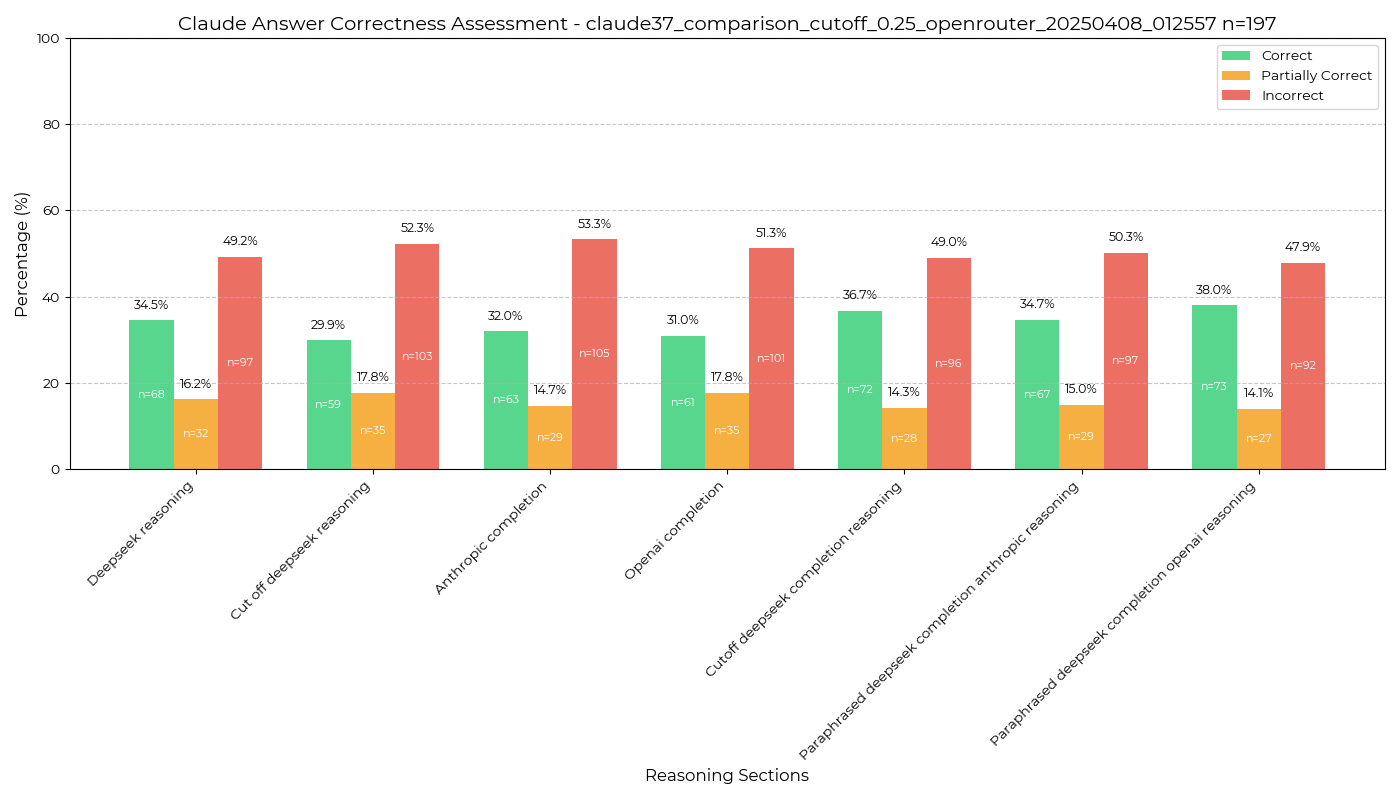
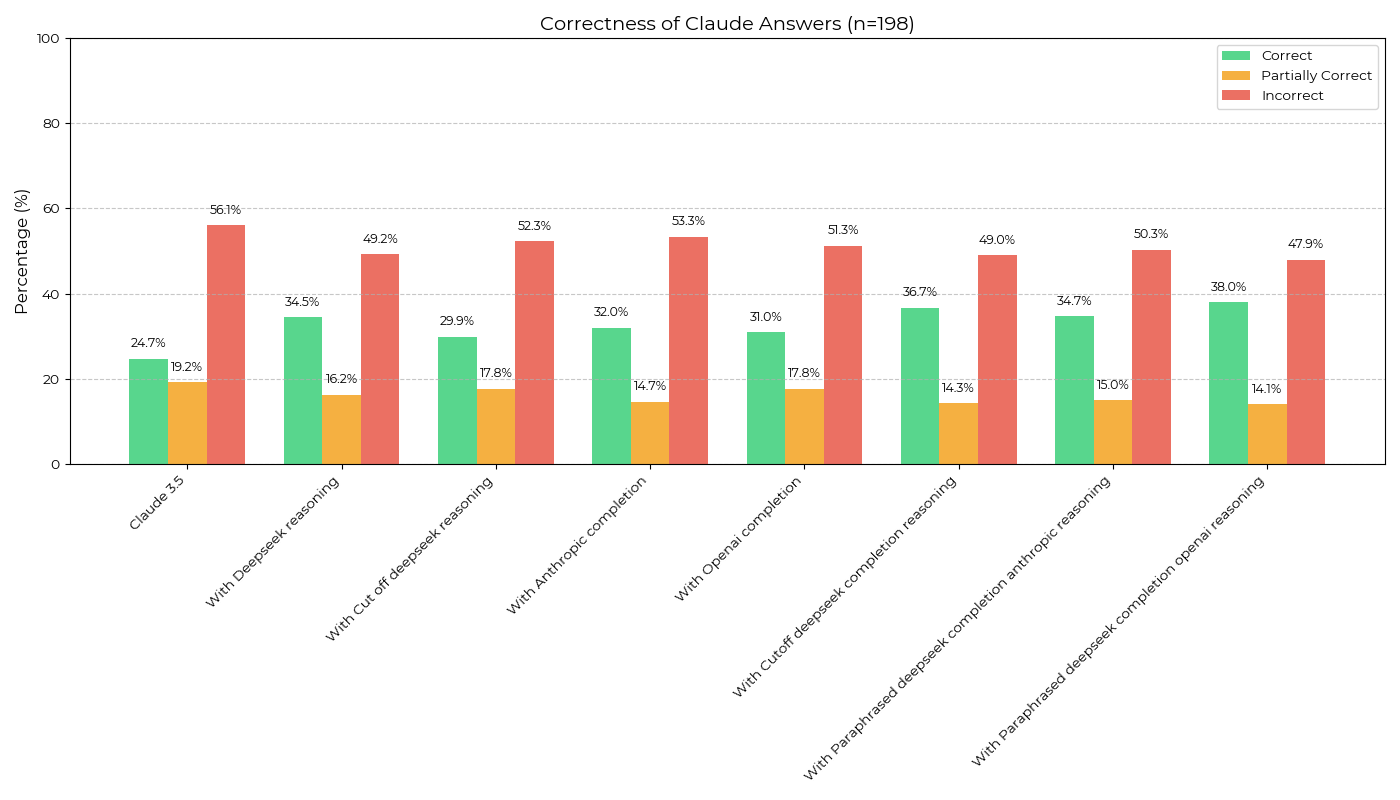
Updated scores and plots to have baseline Claude scores for gpqa.

diff --git a/analyze_scores.py b/analyze_scores.py
@@ -666,7 +666,7 @@ def print_claude_summary(stats, file_name):
         else:
             print(f"{section}: No assessments found")
 
-def plot_claude_correctness(stats, file_name, plots_dir):
+def plot_claude_correctness(stats, file_name, plots_dir, claude_baseline=None):
     """Create and save bar charts for Claude correctness assessments."""
     # Create plot
     plt.figure(figsize=(14, 8))
@@ -680,6 +680,18 @@ def plot_claude_correctness(stats, file_name, plots_dir):
     partially_counts = [stats["correctness"][section]["partially_correct"] for section in sections]
     incorrect_counts = [stats["correctness"][section]["incorrect"] for section in sections]
     total_counts = [stats["correctness"][section]["total"] for section in sections]
+
+    # Add Claude stats if provided
+    if claude_baseline is not None:
+        # Add Claude as an additional section
+        sections.insert(0, "claude")
+        correct_pct.insert(0, claude_baseline["correct_pct"])
+        partially_pct.insert(0, claude_baseline["partially_pct"])
+        incorrect_pct.insert(0, claude_baseline["incorrect_pct"])
+        correct_counts.insert(0, claude_baseline["correct"])
+        partially_counts.insert(0, claude_baseline["partially_correct"])
+        incorrect_counts.insert(0, claude_baseline["incorrect"])
+        total_counts.insert(0, claude_baseline["total_valid"])
     
     # Define bar width and positions
     bar_width = 0.25
@@ -691,12 +703,18 @@ def plot_claude_correctness(stats, file_name, plots_dir):
     bars1 = plt.bar(r1, correct_pct, width=bar_width, label='Correct', color='#2ecc71', alpha=0.8)
     bars2 = plt.bar(r2, partially_pct, width=bar_width, label='Partially Correct', color='#f39c12', alpha=0.8)
     bars3 = plt.bar(r3, incorrect_pct, width=bar_width, label='Incorrect', color='#e74c3c', alpha=0.8)
+
+    section_labels = []
+    for s in sections:
+        if s == "claude":
+            section_labels.append("Claude 3.5")
+        else:
+            section_labels.append(f"With {s.replace('_', ' ').capitalize()}")
     
     # Add labels and customize plot
-    plt.xlabel('Reasoning Sections', fontsize=12)
     plt.ylabel('Percentage (%)', fontsize=12)
-    plt.title(f'Claude Answer Correctness Assessment - {file_name} n={total_counts[0]}', fontsize=14)
-    plt.xticks([r + bar_width for r in range(len(sections))], [s.replace("_", " ").capitalize() for s in sections], rotation=45, ha='right')
+    plt.title(f'Correctness of Claude Answers (n={total_counts[0]})', fontsize=14)
+    plt.xticks([r + bar_width for r in range(len(sections))], section_labels, rotation=45, ha='right')
     plt.ylim(0, 100)
     plt.legend()
     plt.grid(axis='y', linestyle='--', alpha=0.7)
@@ -712,12 +730,6 @@ def plot_claude_correctness(stats, file_name, plots_dir):
             if value > 0:
                 plt.text(bar.get_x() + bar.get_width()/2, value + 2, f'{value:.1f}%', 
                         ha='center', va='bottom', fontsize=9)
-                
-                # Add count inside bar if bar is tall enough
-                if value > 5:  # Only add if bar is tall enough
-                    plt.text(bar.get_x() + bar.get_width()/2, value/2,
-                            f'n={count}', ha='center', va='center', 
-                            color='white', fontweight='bold', fontsize=8)
     
     plt.tight_layout()
     
@@ -726,6 +738,31 @@ def plot_claude_correctness(stats, file_name, plots_dir):
     plt.savefig(plot_path)
     plt.close()
     print(f"Claude correctness assessment plot saved to {plot_path}")
+
+def extract_claude_stats_from_file(claude_scores_file):
+    """Extract Claude stats from the scores file created by our code."""
+    try:
+        with open(claude_scores_file, 'r', encoding='utf-8') as f:
+            data = json.load(f)
+        
+        # Extract stats from our format
+        summary = data.get("summary", {})
+        percentages = data.get("percentages", {})
+        
+        return {
+            "correct": summary.get("correct", 0),
+            "partially_correct": summary.get("partially_correct", 0),
+            "incorrect": summary.get("incorrect", 0),
+            "N/A": summary.get("N/A", 0),
+            "error": summary.get("error", 0),
+            "total_valid": percentages.get("total_valid", 0),
+            "correct_pct": percentages.get("correct_pct", 0),
+            "partially_pct": percentages.get("partially_pct", 0),
+            "incorrect_pct": percentages.get("incorrect_pct", 0)
+        }
+    except Exception as e:
+        print(f"Error extracting Claude stats from file {claude_scores_file}: {e}")
+        return None
 
 def plot_claude_comparisons(stats, file_name, plots_dir):
     """Create comparison plots for different types of reasoning sections."""
@@ -803,7 +840,7 @@ def plot_claude_comparisons(stats, file_name, plots_dir):
     plt.close()
     print(f"Model comparison plot saved to {plot_path}")
 
-def process_claude_file(file_path, plots=False):
+def process_claude_file(file_path, plots=False, claude_baseline=None):
     """Process a single Claude answers score file and generate analysis."""
     try:
         print(f"Analyzing Claude answers file: {file_path}")
@@ -817,7 +854,7 @@ def process_claude_file(file_path, plots=False):
         # Generate plots if requested
         if plots:
             plots_dir = create_plots_directory()
-            plot_claude_correctness(stats, file_name, plots_dir)
+            plot_claude_correctness(stats, file_name, plots_dir, claude_baseline)
             plot_claude_comparisons(stats, file_name, plots_dir)
             
         return True
@@ -837,6 +874,8 @@ def main():
                         help='Generate plots of the results')
     parser.add_argument('--claude-file', type=str, default=None,
                         help='Process a specific Claude answers score file from claude_answers/scores directory')
+    parser.add_argument('--claude-baseline', type=str, default=None,
+                        help='Include baseline Claude 3.5 scores in the comparisons')
     parser.add_argument('--analysis-type', type=str, choices=['regular', 'claude'], default=None,
                         help='Type of analysis to run (regular or claude)')
     parser.add_argument('--std-display', type=str, choices=['error_bars', 'shaded', 'violin'], default=None,
@@ -852,11 +891,16 @@ def main():
         else:
             analysis_type = 'regular'
     
+    claude_baseline = None
+    if args.claude_baseline and os.path.exists(args.claude_baseline):
+        claude_baseline = extract_claude_stats_from_file(args.claude_baseline)
+        print(f"Loaded Claude scores from {args.claude_baseline}")
+    
     if analysis_type == 'claude':
         if args.claude_file:
             claude_file_path = args.claude_file
             if os.path.exists(claude_file_path):
-                process_claude_file(claude_file_path, plots=args.plots)
+                process_claude_file(claude_file_path, plots=args.plots, claude_baseline=claude_baseline)
             else:
                 print(f"Claude answers file not found: {claude_file_path}")
         else:
